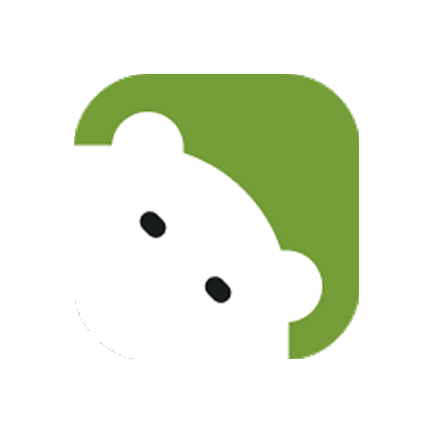
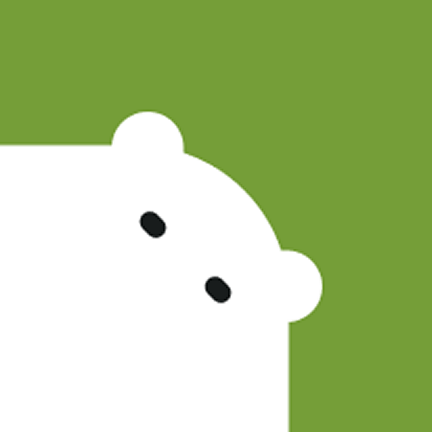
style: '모두 읽음 처리' 아래에 구분선을 넣는다
알림 목록이 헤더 줄에 그대로 붙어 있어 경계가 없었다.
설정 화면과 같은 규격(h-px bg-gray-300, 풀블리드)을 쓴다.

Claude-Session: https://claude.ai/code/session_01VpQ4JajqULtWMCRV5QfX7E

diff --git a/components/Logo.tsx b/components/Logo.tsx
@@ -16,9 +16,9 @@ export function Logo({ size = 150, className = '' }: LogoProps) {
       style={{ width: size, height: size, borderRadius: size * RADIUS_RATIO, overflow: 'hidden' }}
     >
       <Image
-        source={require('@/assets/logo_mark.png')}
+        source={require('@/assets/logo.png')}
         style={{ width: size, height: size }}
-        resizeMode="contain"
+        resizeMode="cover"
       />
     </View>
   );

diff --git a/app/(tabs)/notifications.tsx b/app/(tabs)/notifications.tsx
@@ -218,6 +218,8 @@ export default function NotificationsScreen() {
           <Text className="text-body-md text-gray-800">모두 읽음 처리</Text>
         </Pressable>
       </View>
+      {/* 설정 화면과 같은 구분선 규격 — 화면 끝까지 닿는 풀블리드 */}
+      <View className="h-px bg-gray-300" />
 
       <ScrollView className="flex-1">
         {fetchError ? (
